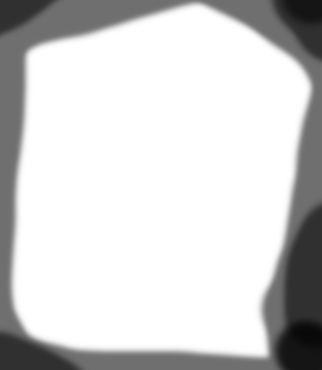
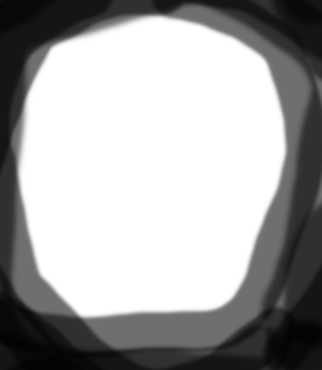
Test of performance & Try not to draw out of visible area donuts.

diff --git a/core/src/fr/formiko/tests/BlendGame.java b/core/src/fr/formiko/tests/BlendGame.java
@@ -18,6 +18,7 @@ import com.badlogic.gdx.graphics.Texture;
 import com.badlogic.gdx.graphics.g2d.Sprite;
 import com.badlogic.gdx.graphics.g2d.SpriteBatch;
 import com.badlogic.gdx.graphics.glutils.FrameBuffer;
+import com.badlogic.gdx.math.Rectangle;
 import com.badlogic.gdx.utils.ScreenUtils;
 
 /**
@@ -34,13 +35,22 @@ public class BlendGame extends ApplicationAdapter {
 	// store initialized by lazy data.
 	private Map<Integer, Texture> visibleCircleTextures;
 	private Map<Integer, FrameBuffer> frameBuffers;
+	private Rectangle rectangle1;
+	private Rectangle rectangle2;
 
 	@Override
 	public void create() {
 		visibleCircleTextures = new HashMap<Integer, Texture>();
 		frameBuffers = new HashMap<Integer, FrameBuffer>();
 
-		donut = new Texture("donut.png");
+		// donut = new Texture("donut.png");
+
+		// Test with aphids as in Kokcinelo.
+		Pixmap aphidPixmap1 = new Pixmap(new FileHandle("aphid.png"));
+		Pixmap aphidPixmap2 = new Pixmap(80, 80, aphidPixmap1.getFormat());
+		aphidPixmap2.drawPixmap(aphidPixmap1, 0, 0, aphidPixmap1.getWidth(), aphidPixmap1.getHeight(), 0, 0, aphidPixmap2.getWidth(),
+				aphidPixmap2.getHeight());
+		donut = new Texture(aphidPixmap2);
 
 		// frameBuffer = new FrameBuffer(Pixmap.Format.RGBA8888, visible.getWidth(), visible.getHeight(), false);
 
@@ -54,9 +64,19 @@ public class BlendGame extends ApplicationAdapter {
 		donutsPoints.add(new Point(0, 0));
 		donutsPoints.add(new Point(30, 0));
 		donutsPoints.add(new Point(-60, 0));
+		// lots of invisible donuts
+		// for (int i = 0; i < 1000000; i++) {
+		// donutsPoints.add(new Point(1000 + i, 1000 + i));
+		// }
+		// lots of visible donuts
+		for (int i = 0; i < 1000; i++) {
+			donutsPoints.add(new Point((int) (Math.random() * 1000), (int) (Math.random() * 1000)));
+		}
 
 		pxmVisible = new Pixmap(new FileHandle("visible2.png"));
 
+		rectangle1 = new Rectangle(0, 0, 0, 0);
+		rectangle2 = new Rectangle(0, 0, 0, 0);
 	}
 	/**
 	 * Draw all creatures in the visible area.
@@ -67,9 +87,15 @@ public class BlendGame extends ApplicationAdapter {
 		spriteBatch.begin();
 		ScreenUtils.clear(Color.CLEAR);
 		// TODO normal draw of all Creatures
+		rectangle1.set(visibleArea.getX(), visibleArea.getY(), visibleArea.getWidth(), visibleArea.getHeight());
 		for (Point p : donutsPoints) {
-			// TODO draw only if in visible area (it may improve performance)
-			spriteBatch.draw(donut, p.x - visibleArea.getX(), p.y - visibleArea.getY());
+			// Draw only if in visible area to improve performance
+			// It can be done with setVisible(boolean b) for Stage, but may cost more time than just draw all.
+			// TODO to test with setVisible(boolean b) for Stage.
+			rectangle2.set(p.x, p.y, donut.getWidth(), donut.getHeight());
+			if (rectangle1.overlaps(rectangle2)) {
+				spriteBatch.draw(donut, p.x - visibleArea.getX(), p.y - visibleArea.getY());
+			}
 		}
 	}
 	/**
